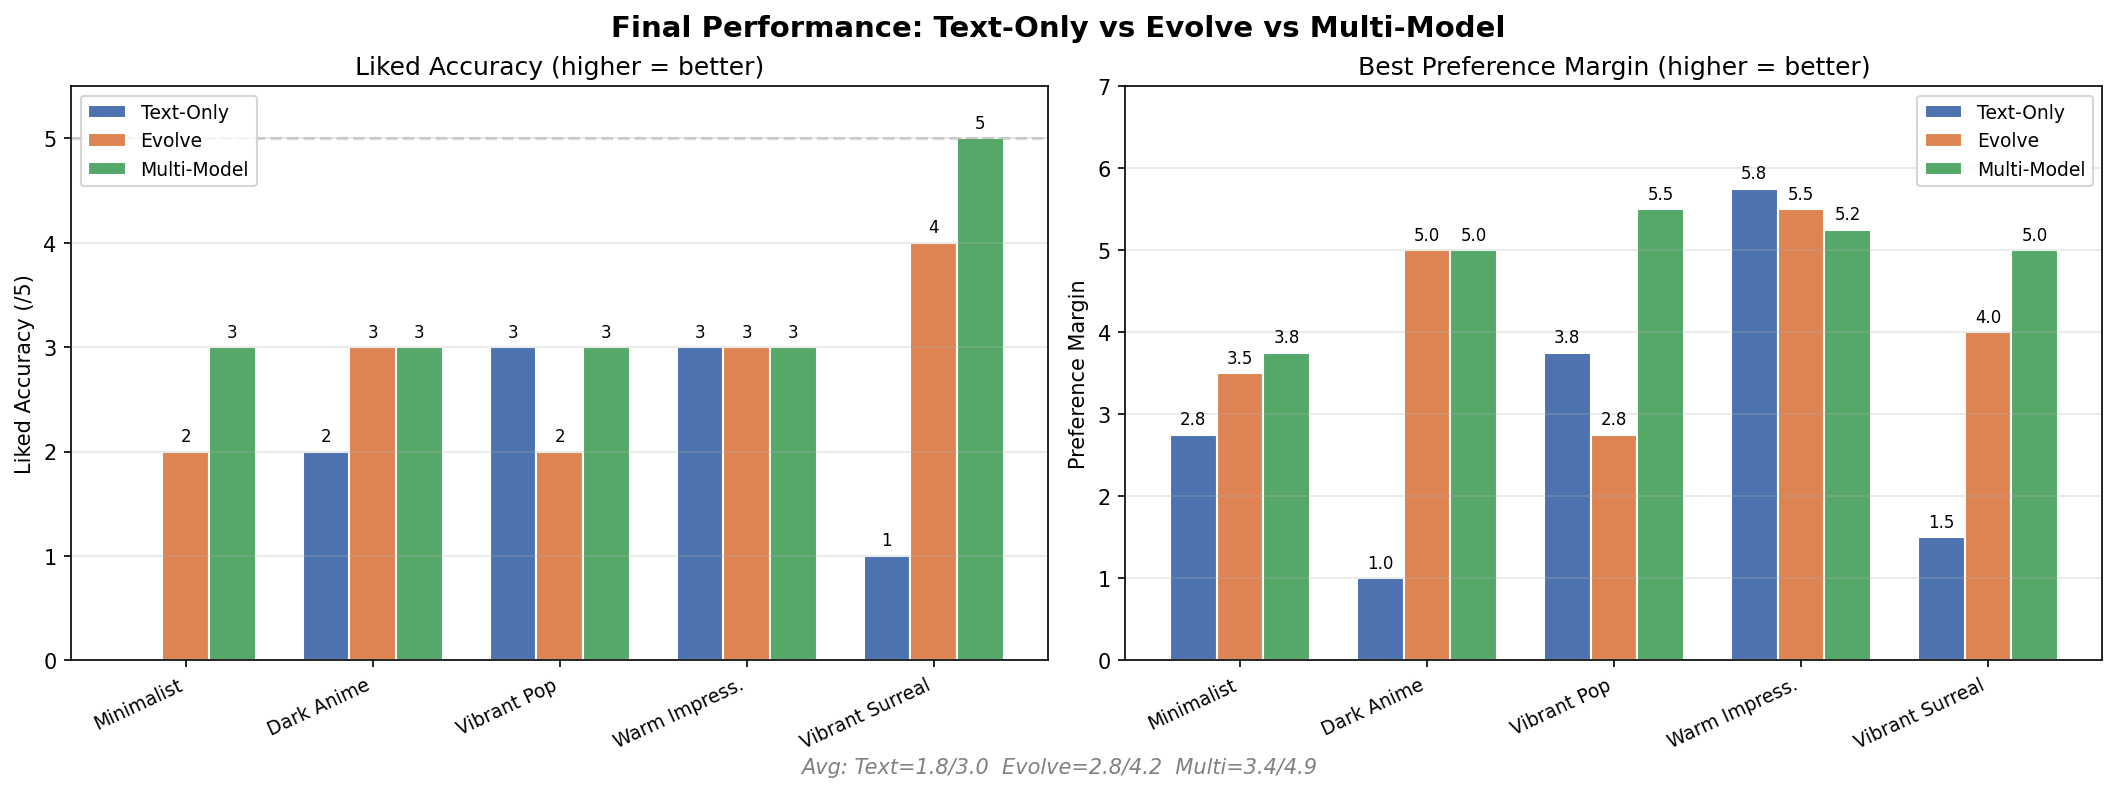
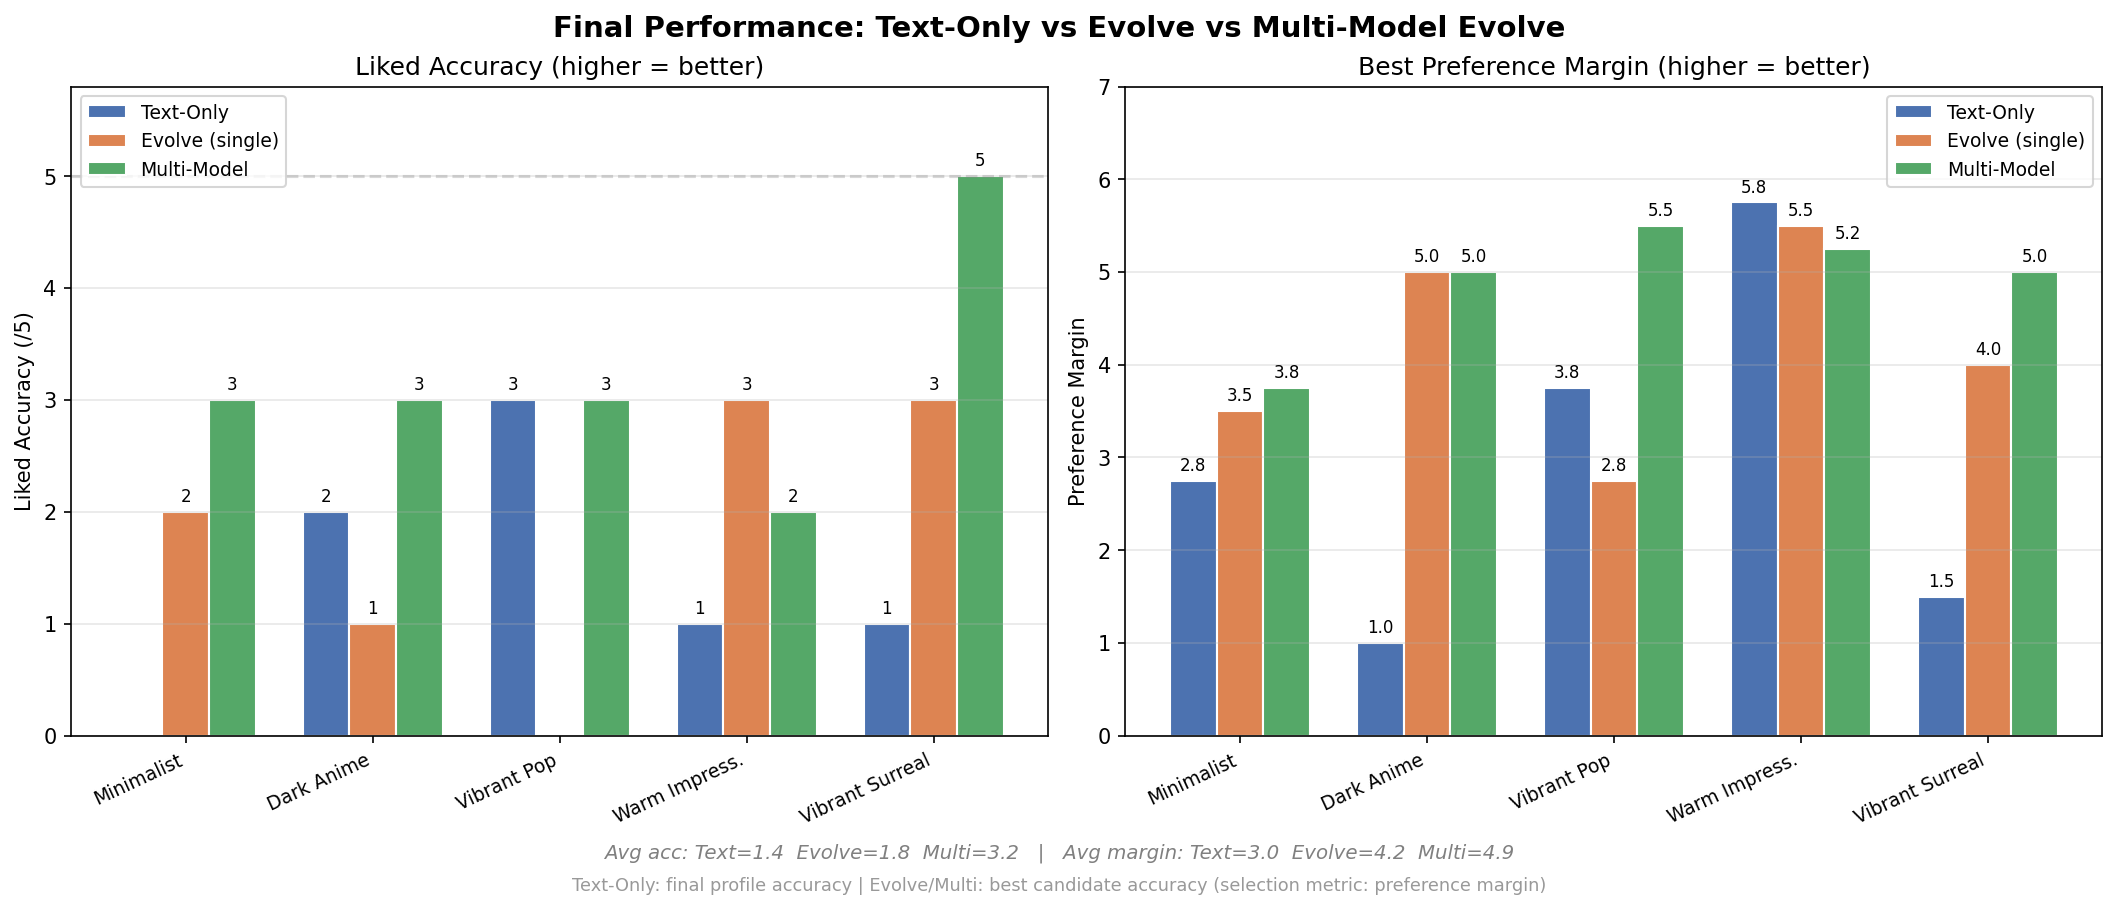
upload: aesthetic-agent/benchmark from ece-895086

diff --git a/projects/aesthetic-agent/benchmark/slides.md b/projects/aesthetic-agent/benchmark/slides.md
@@ -8,25 +8,26 @@ author: "Jiajun Zhu"
 <style>
   :root { --slidev-code-font-size: 0.85em; }
   .slidev-layout { font-size: 1.05em; }
-  table { font-size: 0.95em; }
+  table { font-size: 0.92em; }
   h1 { font-size: 1.9em !important; }
   h2 { font-size: 1.5em !important; }
   li { font-size: 1.0em; }
   p { font-size: 1.0em; }
   .small { font-size: 0.85em; }
+  .footnote { font-size: 0.75em; color: #888; margin-top: 1em; }
 </style>
 
 # AestheticAgent
 
 ## Multi-Model Evolutionary Aesthetic Preference Discovery
 
-Benchmark Report: Text-Only vs Evolve vs Multi-Model Evolve
+Pilot Benchmark Report: Text-Only vs Evolutionary Search vs Multi-Model Search
 
 <div class="small" style="margin-top: 2em; color: #666;">
 
 Jiajun Zhu &mdash; April 2026
 
-5 profiles &times; 3 methods &times; 10 rounds | FLUX / SD3.5 / SD1.5
+5 profiles &times; 3 methods &times; 1 seed | FLUX / SD3.5 / SD1.5
 
 </div>
 
@@ -44,9 +45,9 @@ Given a **hidden aesthetic preference** defined by 5 axes, discover it through i
 | saturation | Vivid, Moderate, Muted (3 values) |
 | detail | Fine, Moderate, Minimal (3 values) |
 
-**Search space**: 8 &times; 6 &times; 6 &times; 3 &times; 3 = **2,592** possible liked profiles
+**Liked-profile search space**: 8 &times; 6 &times; 6 &times; 3 &times; 3 = **2,592** combinations (joint liked/disliked/model space is larger)
 
-**Oracle**: Claude scores generated images 1&ndash;10 against hidden GT (no profile leakage)
+**Evaluator**: Claude conditioned on hidden GT preferences; optimization agents receive only image scores (1&ndash;10)
 
 ---
 
@@ -55,33 +56,56 @@ Given a **hidden aesthetic preference** defined by 5 axes, discover it through i
 <div class="grid grid-cols-3 gap-4">
 <div>
 
-### Text-Only
+### Text-Only (Baseline)
 - Claude refines profiles based on score history
-- Single profile per round
-- No structured search
-- **Baseline**
+- Single profile updated per round
+- No structured search or memory
+- **8 rounds, 4 image pairs/round**
 
 </div>
 <div>
 
-### Evolve (AlphaEvolve-Lite)
-- Structured axis-level mutations
-- L1 duplicate filter + L2 image eval
+### Evolutionary Search (Single-Model)
+- Structured axis-level mutations proposed by Claude
+- Duplicate rejection + image evaluation pipeline
 - Per-axis hypothesis tracking
-- Win/loss pattern analysis
-- Tournament parent selection
+- Win/loss pattern feedback
+- **10 rounds, ~4 candidates/round**
 
 </div>
 <div>
 
-### Multi-Model Evolve
-- Everything in Evolve, plus:
+### Multi-Model Search
+- All evolutionary features, plus:
 - **Cross-model exploration** (FLUX, SD3.5, SD1.5)
 - Forced model mutations in early rounds
 - Cross-model re-evaluation every 3 rounds
-- VRAM management (swap models)
+- **10 rounds, ~4 candidates/round**
 
 </div>
+</div>
+
+---
+
+# Benchmark Protocol
+
+| Parameter | Value |
+|-----------|-------|
+| Profiles tested | minimalist, dark_anime, vibrant_pop, warm_impressionist, vibrant_surreal |
+| Runs per method | 1 (seed=42 for all) |
+| Text-Only rounds | 8 (4 image pairs per round = 64 images total) |
+| Evolve/Multi rounds | 10 (~4 candidates/round, 4 pairs each = ~320 images total) |
+| Base prompts | 4 fixed (portrait, landscape, animal, still\_life) |
+| Image resolution | 512 &times; 512 |
+| Scorer | Claude Sonnet (reads images via SDK) |
+| Mutation proposer | Claude Sonnet (text-only, no image access) |
+| Hardware | 3 &times; NVIDIA RTX A6000 (48GB) |
+| Selection metric | Preference margin (avg\_pref &minus; avg\_dispref) |
+
+<div class="footnote">
+
+Note: Text-Only uses fewer total evaluations (64 vs ~320 images). Evolve methods have higher evaluation budget by design (more candidates explored per round).
+
 </div>
 
 ---
@@ -94,8 +118,8 @@ backgroundSize: 90%
 
 # Results Summary
 
-| Profile | Text Liked | Evolve Liked | Multi Liked | Multi Best Model |
-|---------|:---------:|:----------:|:----------:|:---------------:|
+| Profile | Text-Only | Evolve | Multi-Model | Multi Best Model |
+|---------|:---------:|:------:|:-----------:|:---------------:|
 | minimalist | 0/5 | 2/5 | **3/5** | flux |
 | dark_anime | 2/5 | 1/5 | **3/5** | flux |
 | vibrant_pop | 3/5 | 0/5 | **3/5** | sd15 |
@@ -103,22 +127,37 @@ backgroundSize: 90%
 | vibrant_surreal | 1/5 | 3/5 | **5/5** | sd35 |
 | **Average** | **1.4/5** | **1.8/5** | **3.2/5** | |
 
-<div style="margin-top:1em">
-
 | Metric | Text-Only | Evolve | Multi-Model |
 |--------|:---------:|:------:|:-----------:|
 | Avg Liked Accuracy | 1.4/5 | 1.8/5 | **3.2/5** |
-| Avg Preference Margin | 2.98 | 4.15 | **4.90** |
+| Avg Preference Margin | 3.0 | 4.2 | **4.9** |
+
+<div class="footnote">
+
+Text-Only: final profile accuracy. Evolve/Multi: best candidate by margin. Single seed; no confidence intervals.
 
 </div>
 
-**Ordering confirmed**: Text-Only < Evolve < Multi-Model (both metrics)
+---
 
----
-layout: image
-image: /benchmark_convergence.png
-backgroundSize: 75%
----
+# Average Ordering in This Pilot
+
+Average ordering across five synthetic profiles:
+
+**Text-Only (1.4/5, 3.0) &lt; Evolutionary Search (1.8/5, 4.2) &lt; Multi-Model Search (3.2/5, 4.9)**
+
+<br>
+
+Per-profile exceptions:
+- **dark_anime**: Evolve liked acc (1/5) &lt; Text-Only (2/5), though margin is higher (5.0 vs 1.0)
+- **vibrant_pop**: Evolve (0/5) converges to wrong optimum; Multi-Model rescues via SD1.5
+- **warm_impressionist**: Multi (2/5) &lt; Evolve (3/5); FLUX already well-suited
+
+<div class="footnote">
+
+Liked accuracy and margin do not always agree — margin is the optimization target but not perfectly correlated with GT recovery. A held-out evaluation with an independent judge is needed for stronger claims.
+
+</div>
 
 ---
 
@@ -127,17 +166,17 @@ backgroundSize: 75%
 <div class="grid grid-cols-2 gap-6">
 <div>
 
-### Model Selection Matters
+### Generator Selection Matters
 
-Best model varies **by profile**:
-- **vibrant_pop**: SD1.5 (margin 5.50) vs FLUX (2.75)
+Across these five synthetic profiles, the best generator varies by target style:
+- **vibrant_pop**: SD1.5 (margin 5.5) vs FLUX (2.75)
 - **vibrant_surreal**: SD3.5 achieves **5/5 accuracy**
 - **minimalist, dark_anime, warm_impr.**: FLUX wins
 
-Single-model evolve is blind to this signal.
+Single-model search is blind to this signal.
 
-### Key Insight
-No single model dominates all aesthetic styles. Multi-model search automatically discovers the best model&ndash;style pairing.
+### Implication
+Generator choice is itself part of the aesthetic search space, not just a fixed hyperparameter.
 
 </div>
 <div>
@@ -145,7 +184,7 @@ No single model dominates all aesthetic styles. Multi-model search automatically
 <img src="/benchmark_model_selection.png" style="width:100%" />
 
 <div class="small" style="text-align:center; color:#666;">
-Best model at each round (Multi-Model Evolve)
+Best model at each round (Multi-Model Search). Color = which model holds the best candidate.
 </div>
 
 </div>
@@ -153,8 +192,8 @@ Best model at each round (Multi-Model Evolve)
 
 ---
 layout: image
-image: /sample_images.png
-backgroundSize: contain
+image: /benchmark_convergence.png
+backgroundSize: 75%
 ---
 
 ---
@@ -166,88 +205,113 @@ backgroundSize: contain
 
 ### Text-Only (Baseline)
 - Oscillates without converging
-- Often stuck in local optima (Warm/Realism)
-- Best margin: 2.98 avg
+- Gets stuck in local optima (Warm/Realism)
+- Best avg margin: 3.0
 
-### Evolve (Single-Model)
-- Systematic axis exploration
-- Hypothesis bank prevents re-testing
-- Better margin (4.15) but blind to model choice
-- Fails on vibrant_pop (wrong local optimum)
+### Evolutionary Search
+- Systematic axis exploration via hypothesis tracking
+- Better margin (4.2) but limited to one generator
+- Fails on vibrant_pop (wrong local optimum with FLUX)
 
 </div>
 <div>
 
-### Multi-Model Evolve
-- All benefits of Evolve, plus model diversity
-- Cross-model re-eval catches missed opportunities
+### Multi-Model Search
+- Model diversity rescues failed searches
 - **vibrant_surreal**: perfect 5/5 via SD3.5
-- **vibrant_pop**: SD1.5 rescues a failed FLUX search
-- Best overall: 3.2/5 accuracy, 4.90 margin
+- **vibrant_pop**: SD1.5 achieves 3/5 where FLUX-only gets 0/5
+- Best overall: 3.2/5 accuracy, 4.9 margin
 
-### Disliked Profile
-- Improved from 1/5 to avg 2/5 with explicit disliked mutations
-- Still room for improvement
+### Observation
+The multi-model advantage is largest when the default model (FLUX) is a poor fit for the target aesthetic.
 
 </div>
 </div>
 
 ---
 
-# Technical Contributions
+# Algorithmic Components
 
-1. **VRAM-efficient model swapping**: Unload current model before loading next, enabling multi-model search on single GPU (48GB A6000)
+Design choices in the evolutionary search (not yet validated by ablation):
 
-2. **Disliked-side mutation guidance**: Sampler explicitly requests disliked profile mutations with per-axis dispref statistics
+1. **VRAM-efficient model swapping**: Unload current model before loading next, enabling multi-model search on a single 48GB GPU
 
-3. **Win/loss pattern analysis**: Track which axis changes led to margin improvements vs regressions, feed back into mutation proposals
+2. **Disliked-side mutation guidance**: Sampler requests disliked profile mutations and tracks per-axis dispref statistics
 
-4. **Cross-model re-evaluation**: Every 3 rounds, re-test best profile on untested models to find optimal model&ndash;style pairings
+3. **Win/loss pattern feedback**: Track which axis changes led to margin improvements vs regressions; feed into next mutation proposals
+
+4. **Cross-model re-evaluation**: Every 3 rounds, re-evaluate best profile on untested models to find optimal model&ndash;style pairings
 
 5. **Tournament parent selection**: Top-K tournament instead of greedy best-only, maintaining exploration diversity
 
 ---
 
-# Limitations & Next Steps
+# Limitations
 
 <div class="grid grid-cols-2 gap-6">
 <div>
 
-### Current Limitations
-- **Circular evaluation**: Same Claude family for scoring and mutations
-- **Fixed prompts**: 4 base prompts for search and eval
-- **Single seed**: No uncertainty estimates
-- **Margin &ne; accuracy**: Best-margin candidate not always highest GT accuracy
+### Experimental Design
+- **Circular evaluation**: Same Claude family scores images and proposes mutations
+- **Fixed prompts**: Same 4 prompts for search and evaluation
+- **Single seed**: No uncertainty estimates or confidence intervals
+- **Unequal budgets**: Text-Only sees ~64 images, Evolve sees ~320
 
 </div>
 <div>
 
-### Planned Improvements
-- **Held-out prompt evaluation** (20&ndash;40 unseen prompts)
-- **Independent judge** (different model family)
-- **Multi-seed runs** (3 seeds &times; 5 profiles &times; 3 methods)
-- **Best-fixed-model baselines** (evolve_sd15, evolve_sd35)
-- **Joint liked+disliked objective**
+### Metric & Reporting
+- **Margin &ne; accuracy**: Best-margin candidate not always highest GT match
+- **Selection asymmetry**: Text-Only reports final profile; Evolve reports best-seen candidate
+- **No ablation support** for individual algorithmic components
+- **No held-out evaluation** to test generalization
 
 </div>
 </div>
 
 ---
 
+# Next Steps
+
+1. **Held-out prompt evaluation**: Optimize on 4 prompts, evaluate final candidate on 20&ndash;40 unseen prompts
+2. **Independent judge**: Re-score final candidates with a different model family
+3. **Multi-seed runs**: 3 seeds &times; 5 profiles &times; 3 methods with confidence intervals
+4. **Best-fixed-model baselines**: Run evolve\_sd15 and evolve\_sd35 with equal budget
+5. **Joint liked+disliked objective**: Explicit search budget for the disliked profile
+6. **Ablation study**: Isolate contribution of each algorithmic component
+
+---
+
 # Conclusion
 
-<div style="font-size: 1.1em;">
+<div style="font-size: 1.05em;">
 
 **AestheticAgent** discovers hidden aesthetic preferences through evolutionary search over visual style profiles.
 
-**Key result**: Multi-model evolutionary search (3.2/5 avg accuracy, 4.90 margin) consistently outperforms single-model evolve (1.8/5, 4.15) and text-only refinement (1.4/5, 2.98).
+**Pilot result**: In this single-seed benchmark across five synthetic profiles, multi-model evolutionary search achieves the best average result (3.2/5 liked accuracy, 4.9 margin), outperforming single-model evolutionary search (1.8/5, 4.2) and text-only refinement (1.4/5, 3.0).
 
-**Why it works**: Different generation models render aesthetic styles differently. FLUX excels at minimalist/classical styles, SD3.5 at surrealism, SD1.5 at pop art. Multi-model search automatically discovers these pairings.
+**Core insight**: Generator choice is part of the aesthetic search space. No single model dominates all styles &mdash; FLUX excels at minimalist aesthetics, SD3.5 at surrealism, SD1.5 at pop art. Multi-model search discovers these pairings automatically.
 
 </div>
 
-<div style="margin-top: 2em; text-align: center; color: #888; font-size: 0.9em;">
+---
 
-Code: <code>~/AestheticAgent-dev</code> | Logs: <code>outputs/bench_logs/</code> | Figures: <code>outputs/benchmark_*.png</code>
+# Appendix: Experimental Details
+
+| Profile | GT Liked | GT Disliked |
+|---------|----------|-------------|
+| minimalist | Minimalism / Neutral / Pencil / Muted / Minimal | Pop Art / Vibrant / Digital / Vivid / Fine |
+| dark_anime | Anime / Monochrome / Digital / Muted / Fine | Impressionism / Vibrant / Watercolor / Vivid / Moderate |
+| vibrant_pop | Pop Art / Vibrant / Digital / Vivid / Fine | Minimalism / Neutral / Pencil / Muted / Minimal |
+| warm_impressionist | Impressionism / Warm / Oil Painting / Vivid / Moderate | Minimalism / Cool / Pencil / Muted / Minimal |
+| vibrant_surreal | Surrealism / Vibrant / Oil Painting / Vivid / Fine | Realism / Monochrome / Pencil / Muted / Minimal |
+
+<div class="small" style="margin-top:1em">
+
+**Models**: FLUX.1-schnell (4 steps, cfg=0), SD3.5-medium (28 steps, cfg=7), SD1.5 (25 steps, cfg=7.5)
+
+**Base prompts**: "a young woman with freckles", "a lone tree in a vast field", "a ginger cat on a windowsill", "sunflowers in a glass mason jar"
+
+**Seed**: 42 for all methods | **Hardware**: 3x NVIDIA RTX A6000 (48GB)
 
 </div>
